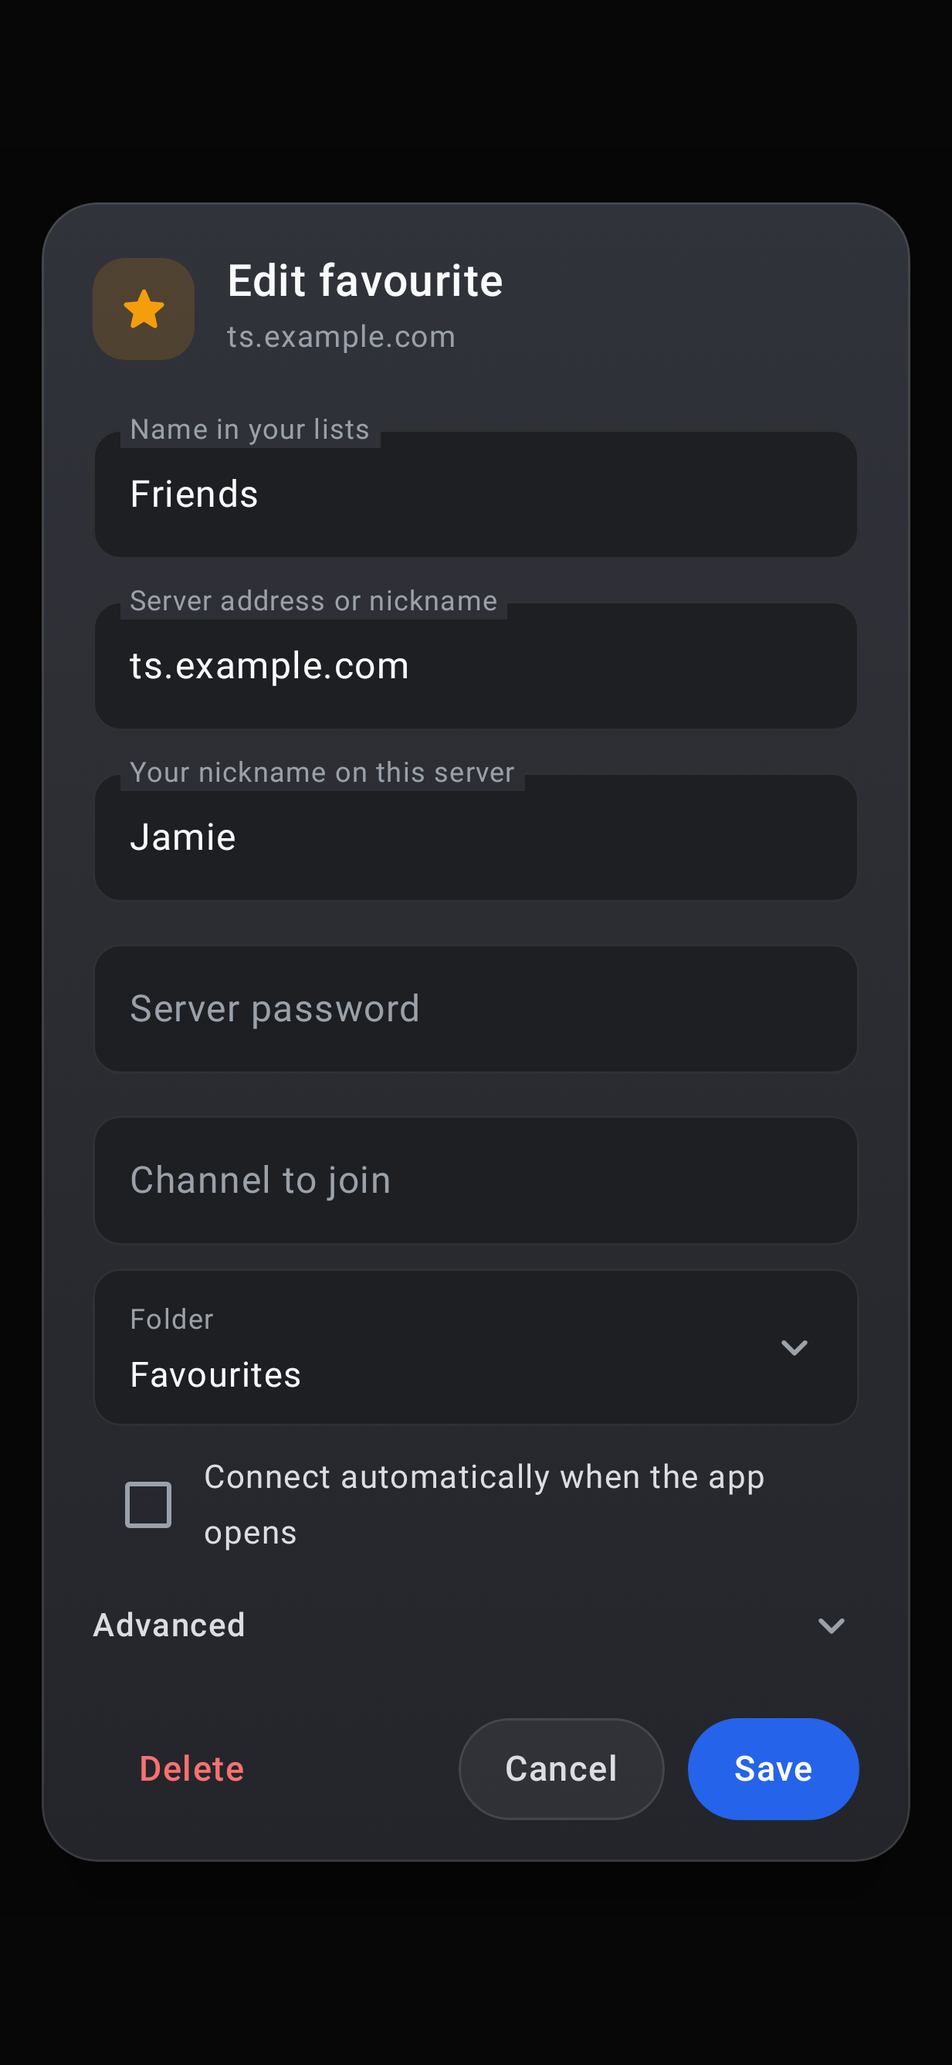
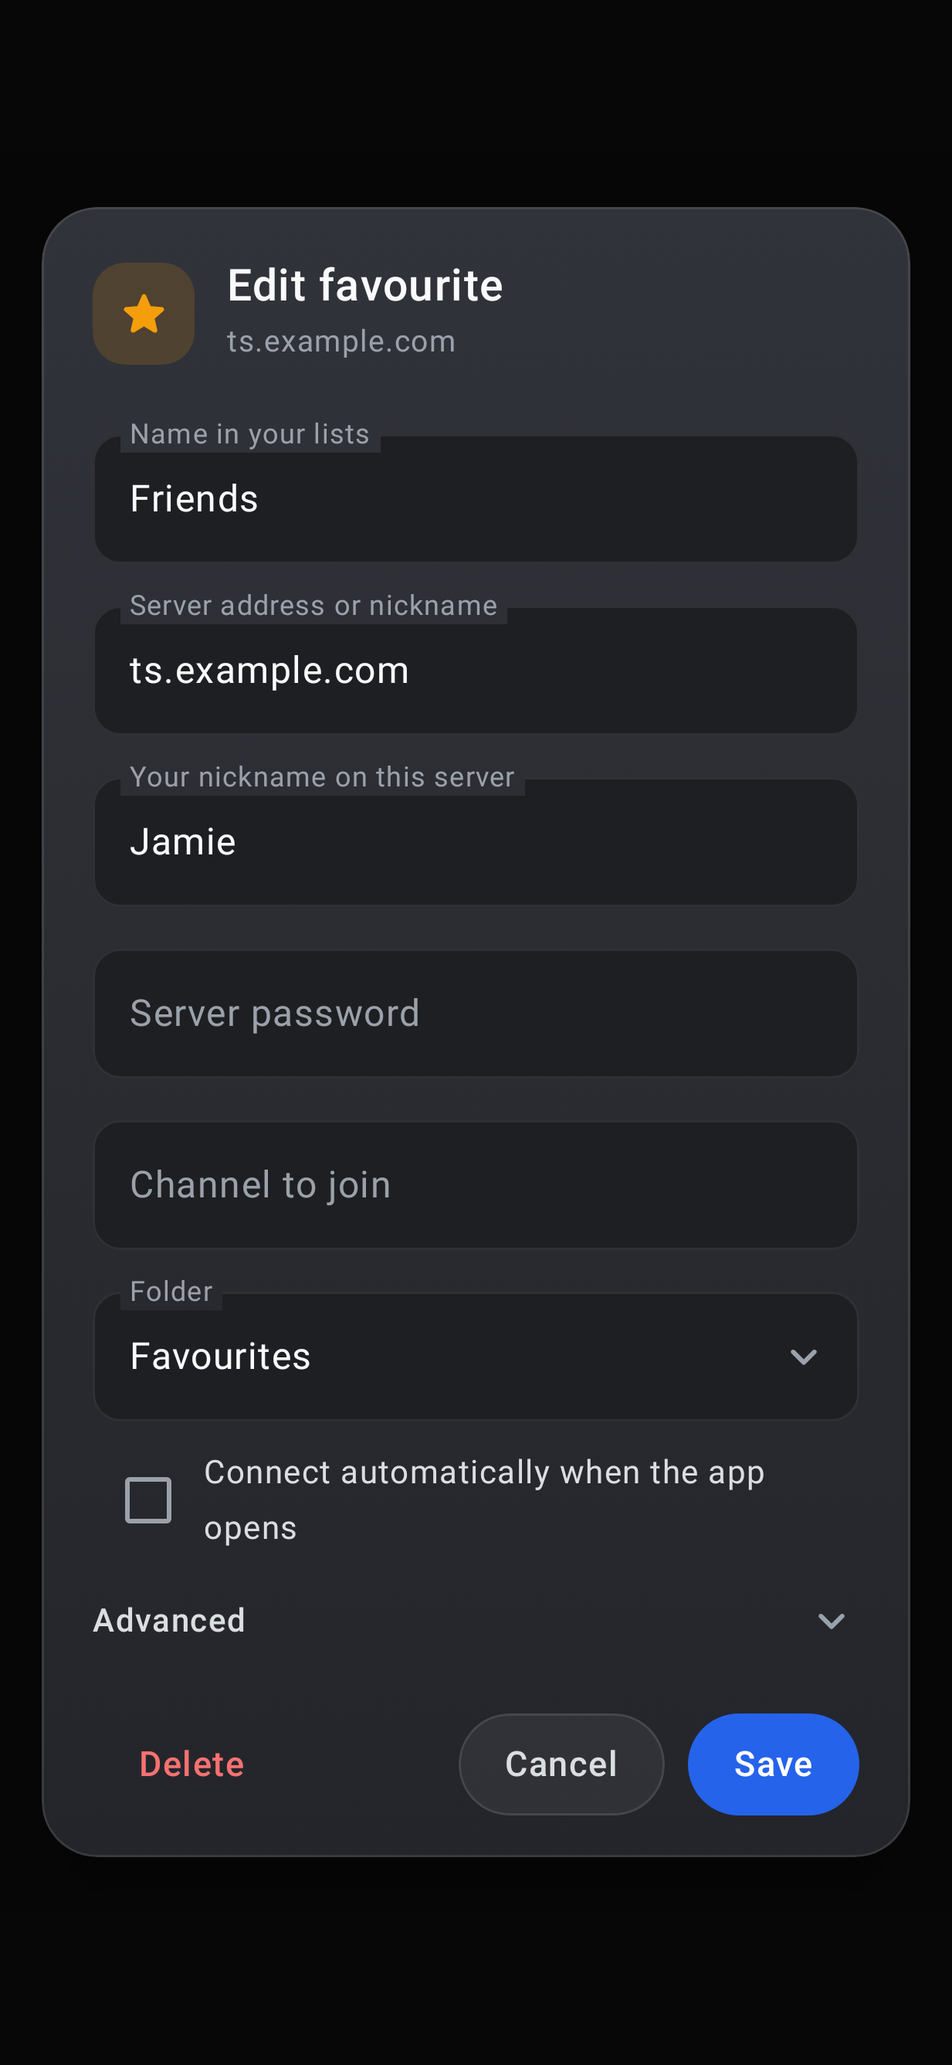
Favourites arranged by holding, folders moved, the Folder field's look
A favourite's row held is dragged to another place in its folder (the
others make room); a tap still connects, and holding connects nothing.
Screen readers get Move up and Move down on each row. A folder's header
held opens Edit folder: its name, and Move up and Move down among the
folders. The Folder choice in Edit favourite is a field as the others
are, with its name on the border and their height.

diff --git a/app/src/main/kotlin/io/github/korppujauho/pocketts/ui/ConnectScreen.kt b/app/src/main/kotlin/io/github/korppujauho/pocketts/ui/ConnectScreen.kt
@@ -6,7 +6,15 @@ import androidx.compose.foundation.background
 import androidx.compose.foundation.border
 import androidx.compose.foundation.clickable
 import androidx.compose.foundation.combinedClickable
+import androidx.compose.foundation.gestures.detectDragGesturesAfterLongPress
+import androidx.compose.foundation.gestures.detectTapGestures
+import androidx.compose.ui.graphics.graphicsLayer
+import androidx.compose.ui.input.pointer.pointerInput
+import androidx.compose.ui.layout.onSizeChanged
 import androidx.compose.ui.semantics.customActions
+import androidx.compose.ui.semantics.onClick
+import androidx.compose.ui.semantics.role
+import androidx.compose.ui.zIndex
 import androidx.compose.ui.semantics.heading
 import androidx.compose.ui.semantics.semantics
 import androidx.compose.foundation.layout.Arrangement
@@ -65,6 +73,9 @@ interface ConnectActions {
     fun removeFavorite(f: Favorite)
     fun toggleAuto(f: Favorite)
     fun renameFolder(folder: String, name: String) {}
+    /** A favourite dragged to place [to] in its folder; a folder moved one place up or down. */
+    fun moveFavorite(f: Favorite, to: Int) {}
+    fun moveFolder(folder: String, up: Boolean) {}
     /** Remembered: the folders folded shut, and whether the Connect and Community panel is folded to its bar. */
     fun setFolded(folders: Set<String>) {}
     fun setConnectHidden(hidden: Boolean) {}
@@ -124,7 +135,7 @@ fun ConnectScreen(
                     },
                     onRename = { renaming = folder },
                 ) {
-                    for (f in inFolder) FavoriteRow(f, actions, onEdit = { editing = f })
+                    FavoriteRows(inFolder, actions, onEdit = { editing = it })
                 }
             }
             // Connecting by address, and TeamSpeak's community servers: two pages of one panel, its switch on top, and
@@ -191,8 +202,11 @@ fun ConnectScreen(
     }
     renaming?.let { folder ->
         val first = stringResource(R.string.favourites)
+        val at = folders.indexOfFirst { it.first == folder }
         FolderDialog(
             folderName(folder),
+            onUp = if (at > 0) ({ actions.moveFolder(folder, true) }) else null,
+            onDown = if (at in 0 until folders.lastIndex) ({ actions.moveFolder(folder, false) }) else null,
             onSave = { typed ->
                 val name = if (typed == first) "" else typed // the first folder's own name is that folder
                 // Folded shut, it stays so under its new name
@@ -211,11 +225,11 @@ fun ConnectScreen(
 @Composable
 internal fun folderName(folder: String) = folder.ifEmpty { stringResource(R.string.favourites) }
 
-/** A folder of favourites: its name, and a tap on it folds it shut or open (holding it renames it). */
+/** A folder of favourites: its name, and a tap on it folds it shut or open (holding it opens its edit window). */
 @OptIn(androidx.compose.foundation.ExperimentalFoundationApi::class)
 @Composable
 private fun FolderPanel(name: String, open: Boolean, onToggle: () -> Unit, onRename: () -> Unit, content: @Composable () -> Unit) {
-    val rename = stringResource(R.string.folder_rename)
+    val rename = stringResource(R.string.folder_edit)
     Column(
         Modifier.fillMaxWidth().clip(RoundedCornerShape(12.dp)).background(Ts.panel)
             .border(1.dp, Ts.hairline, RoundedCornerShape(12.dp)),
@@ -249,12 +263,15 @@ private fun FolderPanel(name: String, open: Boolean, onToggle: () -> Unit, onRen
     }
 }
 
-/** A folder's new name. */
+/**
+ * A folder's edit window: its name, and its place among the folders ([onUp] and [onDown] move it at once; null at the
+ * top and at the bottom).
+ */
 @Composable
-private fun FolderDialog(name: String, onSave: (String) -> Unit, onDismiss: () -> Unit) {
+private fun FolderDialog(name: String, onUp: (() -> Unit)?, onDown: (() -> Unit)?, onSave: (String) -> Unit, onDismiss: () -> Unit) {
     var text by remember { mutableStateOf(name) }
     TsDialog(
-        onDismiss = onDismiss, title = stringResource(R.string.folder_rename),
+        onDismiss = onDismiss, title = stringResource(R.string.folder_edit),
         icon = androidx.compose.material.icons.Icons.Rounded.Edit, tint = Ts.accent,
         buttons = {
             Spacer(Modifier.weight(1f))
@@ -263,6 +280,10 @@ private fun FolderDialog(name: String, onSave: (String) -> Unit, onDismiss: () -
         },
     ) {
         TsField(text, { text = it.take(40) }, stringResource(R.string.folder_name))
+        Row(horizontalArrangement = Arrangement.spacedBy(10.dp)) {
+            PillButton(stringResource(R.string.a11y_move_up), enabled = onUp != null, modifier = Modifier.weight(1f)) { onUp?.invoke() }
+            PillButton(stringResource(R.string.a11y_move_down), enabled = onDown != null, modifier = Modifier.weight(1f)) { onDown?.invoke() }
+        }
     }
 }
 
@@ -324,13 +345,94 @@ private fun CommunityServers(nick: String, onJoin: (String) -> Unit) {
     }
 }
 
+/**
+ * A folder's favourites: a tap connects, and a row held is dragged up or down to another place among them (the others
+ * make room; let go, it stays there).
+ */
 @Composable
-private fun FavoriteRow(f: Favorite, actions: ConnectActions, onEdit: () -> Unit) {
-    Row(verticalAlignment = Alignment.CenterVertically, horizontalArrangement = Arrangement.spacedBy(6.dp)) {
+private fun FavoriteRows(list: List<Favorite>, actions: ConnectActions, onEdit: (Favorite) -> Unit) {
+    val gap = with(androidx.compose.ui.platform.LocalDensity.current) { 8.dp.toPx() }
+    val haptic = androidx.compose.ui.platform.LocalHapticFeedback.current
+    var rowHeight by remember { mutableStateOf(0) }
+    var dragged by remember { mutableStateOf<Favorite?>(null) }
+    var dragY by remember { mutableStateOf(0f) }
+    val slot = rowHeight + gap
+    val from = list.indexOf(dragged)
+    // Where it would land: its own place moved by whole rows
+    val to = if (from < 0 || slot <= 0f) from else (from + Math.round(dragY / slot)).coerceIn(0, list.lastIndex)
+    Column(verticalArrangement = Arrangement.spacedBy(8.dp)) {
+        list.forEachIndexed { i, f ->
+            val mine = f == dragged
+            // The rows between where it was and where it would land step aside
+            val aside by androidx.compose.animation.core.animateFloatAsState(
+                when {
+                    from < 0 || mine -> 0f
+                    i in (from + 1)..to -> -slot
+                    i in to until from -> slot
+                    else -> 0f
+                },
+                label = "aside",
+            )
+            androidx.compose.runtime.key(f) {
+                FavoriteRow(
+                    f, lifted = mine,
+                    modifier = Modifier.onSizeChanged { rowHeight = it.height }
+                        .zIndex(if (mine) 1f else 0f).graphicsLayer { translationY = if (mine) dragY else aside },
+                    onConnect = { actions.connectFavorite(f) }, onEdit = { onEdit(f) },
+                    onUp = if (i > 0) ({ actions.moveFavorite(f, i - 1) }) else null,
+                    onDown = if (i < list.lastIndex) ({ actions.moveFavorite(f, i + 1) }) else null,
+                    onDragStart = {
+                        haptic.performHapticFeedback(androidx.compose.ui.hapticfeedback.HapticFeedbackType.LongPress)
+                        dragged = f
+                        dragY = 0f
+                    },
+                    onDrag = { dragY += it },
+                    onDragEnd = { moved ->
+                        if (moved && to >= 0 && to != from) actions.moveFavorite(f, to)
+                        dragged = null
+                        dragY = 0f
+                    },
+                )
+            }
+        }
+    }
+}
+
+@Composable
+private fun FavoriteRow(
+    f: Favorite, lifted: Boolean, modifier: Modifier, onConnect: () -> Unit, onEdit: () -> Unit, onUp: (() -> Unit)?, onDown: (() -> Unit)?,
+    onDragStart: () -> Unit, onDrag: (Float) -> Unit, onDragEnd: (moved: Boolean) -> Unit,
+) {
+    val connect = stringResource(R.string.connect)
+    val up = stringResource(R.string.a11y_move_up)
+    val down = stringResource(R.string.a11y_move_down)
+    // The latest ones, for the gestures that outlive a redraw
+    val start by androidx.compose.runtime.rememberUpdatedState(onDragStart)
+    val drag by androidx.compose.runtime.rememberUpdatedState(onDrag)
+    val end by androidx.compose.runtime.rememberUpdatedState(onDragEnd)
+    val tap by androidx.compose.runtime.rememberUpdatedState(onConnect)
+    Row(modifier, verticalAlignment = Alignment.CenterVertically, horizontalArrangement = Arrangement.spacedBy(6.dp)) {
         Column(
             Modifier.weight(1f).clip(RoundedCornerShape(8.dp)).background(Ts.card)
-                .border(1.dp, Color(0x1FFFFFFF), RoundedCornerShape(8.dp))
-                .clickable { actions.connectFavorite(f) }.padding(horizontal = 14.dp, vertical = 10.dp),
+                .border(1.dp, if (lifted) Ts.accent else Color(0x1FFFFFFF), RoundedCornerShape(8.dp))
+                .semantics {
+                    role = androidx.compose.ui.semantics.Role.Button
+                    onClick(connect) { tap(); true }
+                    customActions = listOfNotNull(
+                        onUp?.let { androidx.compose.ui.semantics.CustomAccessibilityAction(up) { it(); true } },
+                        onDown?.let { androidx.compose.ui.semantics.CustomAccessibilityAction(down) { it(); true } },
+                    )
+                }
+                // A tap connects; held, it isn't a tap any more (the drag below takes it, and letting go connects nothing)
+                .pointerInput(Unit) { detectTapGestures(onLongPress = {}, onTap = { tap() }) }
+                .pointerInput(Unit) {
+                    detectDragGesturesAfterLongPress(
+                        onDragStart = { start() },
+                        onDrag = { change, amount -> change.consume(); drag(amount.y) },
+                        onDragEnd = { end(true) }, onDragCancel = { end(false) },
+                    )
+                }
+                .padding(horizontal = 14.dp, vertical = 10.dp),
         ) {
             Text(f.label, color = Ts.text, fontWeight = FontWeight.SemiBold, fontSize = 15.sp, maxLines = 1, overflow = TextOverflow.Ellipsis)
         }
@@ -444,22 +546,15 @@ private fun FolderChoice(folders: List<String>, folder: String, newFolder: Strin
     var open by remember { mutableStateOf(false) }
     val label = stringResource(R.string.favourite_folder)
     Box {
-        Row(
-            Modifier.fillMaxWidth().clip(RoundedCornerShape(12.dp)).background(Ts.card)
-                .border(1.dp, Color(0x14FFFFFF), RoundedCornerShape(12.dp))
-                .clickable(role = androidx.compose.ui.semantics.Role.DropdownList) { open = true }
-                .padding(horizontal = 16.dp, vertical = 10.dp),
-            verticalAlignment = Alignment.CenterVertically,
-        ) {
-            Column(Modifier.weight(1f)) {
-                Text(label, color = Ts.muted, fontSize = 12.sp)
-                Text(
-                    if (newFolder != null) stringResource(R.string.favourite_folder_new) else folderName(folder),
-                    color = Ts.bright, fontSize = 15.sp, maxLines = 1, overflow = TextOverflow.Ellipsis,
-                )
-            }
-            androidx.compose.material3.Icon(androidx.compose.material.icons.Icons.Rounded.ExpandMore, contentDescription = null, tint = Ts.muted)
-        }
+        // In the other fields' look; the whole of it opens the list
+        TsField(
+            if (newFolder != null) stringResource(R.string.favourite_folder_new) else folderName(folder), {}, label, readOnly = true,
+            trailing = { androidx.compose.material3.Icon(androidx.compose.material.icons.Icons.Rounded.ExpandMore, contentDescription = null, tint = Ts.muted) },
+        )
+        Box(
+            Modifier.matchParentSize().clip(RoundedCornerShape(12.dp))
+                .clickable(role = androidx.compose.ui.semantics.Role.DropdownList) { open = true },
+        )
         androidx.compose.material3.DropdownMenu(open, onDismissRequest = { open = false }, containerColor = Ts.card) {
             for (name in folders) {
                 androidx.compose.material3.DropdownMenuItem(

diff --git a/app/src/test/kotlin/io/github/korppujauho/pocketts/FavouriteDragTest.kt b/app/src/test/kotlin/io/github/korppujauho/pocketts/FavouriteDragTest.kt
@@ -1,0 +1,91 @@
+package io.github.korppujauho.pocketts
+
+import androidx.compose.ui.geometry.Offset
+import androidx.compose.ui.test.click
+import androidx.compose.ui.test.junit4.createComposeRule
+import androidx.compose.ui.test.longClick
+import androidx.compose.ui.test.onNodeWithText
+import androidx.compose.ui.test.performTouchInput
+import io.github.korppujauho.pocketts.ui.ConnectActions
+import io.github.korppujauho.pocketts.ui.ConnectScreen
+import io.github.korppujauho.pocketts.ui.PocketTsTheme
+import org.junit.Assert.assertEquals
+import org.junit.Rule
+import org.junit.Test
+import org.junit.runner.RunWith
+import org.robolectric.RobolectricTestRunner
+import org.robolectric.annotation.Config
+import org.robolectric.annotation.GraphicsMode
+
+/**
+ * A favourite's row on the connect screen: a tap connects; held and dragged it's moved to another place in its
+ * folder, and held it connects nothing. A folder's header held opens its edit window.
+ */
+@RunWith(RobolectricTestRunner::class)
+@GraphicsMode(GraphicsMode.Mode.NATIVE)
+@Config(qualifiers = "w411dp-h891dp-xxhdpi", sdk = [36])
+class FavouriteDragTest {
+    @get:Rule val rule = createComposeRule()
+    private val favs = listOf(
+        Favorite("ts.example.com", "Friends' server"), Favorite("voice.example.org:9988"), Favorite("third.example.org", "Third"),
+        Favorite("clan.example.net", "Clan", folder = "Gaming"),
+    )
+
+    private class Seen : ConnectActions {
+        val moves = mutableListOf<Pair<String, Int>>()
+        val connects = mutableListOf<String>()
+        override fun connect(address: String, nickname: String, password: String, remember: Boolean, favorite: Boolean) {}
+        override fun connectFavorite(f: Favorite) { connects += f.address }
+        override fun saveFavorite(old: Favorite?, new: Favorite) {}
+        override fun removeFavorite(f: Favorite) {}
+        override fun toggleAuto(f: Favorite) {}
+        override fun moveFavorite(f: Favorite, to: Int) { moves += f.address to to }
+    }
+
+    private fun screen(seen: Seen) = rule.setContent {
+        PocketTsTheme { ConnectScreen("Jamie", "", "", favs, null, seen, settingsActions = Example.noSettings, connectHidden = true) }
+    }
+
+    @Test
+    fun heldAndDraggedItMovesAndConnectsNothing() {
+        val seen = Seen()
+        screen(seen)
+        rule.onNodeWithText("Friends' server").performTouchInput {
+            down(center)
+            advanceEventTime(800)
+            moveBy(Offset(0f, 170f)) // a row down
+        }
+        rule.waitForIdle() // the row is lifted and the others have made room
+        rule.onNodeWithText("Friends' server").performTouchInput { up() }
+        rule.waitForIdle()
+        assertEquals(listOf("ts.example.com" to 1), seen.moves)
+        assertEquals(emptyList<String>(), seen.connects)
+    }
+
+    @Test
+    fun heldWithoutDraggingItStaysAndConnectsNothing() {
+        val seen = Seen()
+        screen(seen)
+        rule.onNodeWithText("Third").performTouchInput { longClick() }
+        rule.waitForIdle()
+        assertEquals(emptyList<Pair<String, Int>>(), seen.moves)
+        assertEquals(emptyList<String>(), seen.connects)
+    }
+
+    @Test
+    fun aTapConnects() {
+        val seen = Seen()
+        screen(seen)
+        rule.onNodeWithText("Third").performTouchInput { click() }
+        rule.waitForIdle()
+        assertEquals(listOf("third.example.org"), seen.connects)
+    }
+
+    @Test
+    fun aFoldersHeaderHeldOpensItsEditWindow() {
+        screen(Seen())
+        rule.onNodeWithText("Gaming").performTouchInput { longClick() }
+        rule.onNodeWithText("Edit folder").assertExists()
+        rule.onNodeWithText("Move up").assertExists()
+    }
+}

diff --git a/app/src/test/kotlin/io/github/korppujauho/pocketts/FavouriteFoldersTest.kt b/app/src/test/kotlin/io/github/korppujauho/pocketts/FavouriteFoldersTest.kt
@@ -67,6 +67,31 @@ class FavouriteFoldersTest {
     }
 
     @Test
+    fun aFavouriteIsDraggedWithinItsFolder() {
+        val d = Favorite("d.example.com")
+        // a, c and d are in the first folder, b (Friends) between them in the list
+        assertEquals(listOf(c, b, d, a), Favorites.moved(listOf(a, b, c, d), a, 2))
+        assertEquals(listOf(d, b, a, c), Favorites.moved(listOf(a, b, c, d), d, 0))
+        assertEquals(listOf(a, b, c, d), Favorites.moved(listOf(a, b, c, d), c, 1)) // where it was
+        assertEquals(listOf(c, b, d, a), Favorites.moved(listOf(a, b, c, d), a, 9)) // past the end: last
+        // The folders are as they were
+        assertEquals(listOf("", "Friends"), Favorites.byFolder(Favorites.moved(listOf(a, b, c, d), a, 2)).map { it.first })
+    }
+
+    @Test
+    fun aFolderIsMovedUpOrDown() {
+        val w = Favorite("w.example.com", folder = "Work")
+        val list = listOf(a, b, c, w)
+        assertEquals(listOf("Friends", "", "Work"), Favorites.byFolder(Favorites.folderMoved(list, "Friends", up = true)).map { it.first })
+        assertEquals(listOf("", "Work", "Friends"), Favorites.byFolder(Favorites.folderMoved(list, "Friends", up = false)).map { it.first })
+        // The first one up, the last one down: as it was
+        assertEquals(list, Favorites.folderMoved(list, "", up = true))
+        assertEquals(list, Favorites.folderMoved(list, "Work", up = false))
+        // Its favourites keep their order
+        assertEquals(listOf(b, a, c, w), Favorites.folderMoved(list, "Friends", up = true))
+    }
+
+    @Test
     fun foldedFoldersAreRemembered() {
         assertEquals(emptySet<String>(), Favorites.folded(context))
         Favorites.setFolded(context, setOf("", "Friends"))

diff --git a/app/src/main/kotlin/io/github/korppujauho/pocketts/Favorites.kt b/app/src/main/kotlin/io/github/korppujauho/pocketts/Favorites.kt
@@ -113,6 +113,25 @@ object Favorites {
         return list.map { if (it.folder == folder) it.copy(folder = to) else it }
     }
 
+    /** A favourite dragged to place [to] among its folder's favourites (the other folders stay where they are). */
+    fun moved(list: List<Favorite>, f: Favorite, to: Int): List<Favorite> {
+        val inFolder = list.filter { it.folder == f.folder }
+        val from = inFolder.indexOf(f)
+        if (from < 0 || to.coerceIn(0, inFolder.lastIndex) == from) return list
+        val order = inFolder.toMutableList().apply { add(to.coerceIn(0, inFolder.lastIndex), removeAt(from)) }.iterator()
+        return list.map { if (it.folder == f.folder) order.next() else it }
+    }
+
+    /** A folder moved one place up or down among the folders. */
+    fun folderMoved(list: List<Favorite>, folder: String, up: Boolean): List<Favorite> {
+        val folders = byFolder(list).toMutableList()
+        val from = folders.indexOfFirst { it.first == folder }
+        val to = if (up) from - 1 else from + 1
+        if (from < 0 || to !in folders.indices) return list
+        folders.add(to, folders.removeAt(from))
+        return folders.flatMap { it.second }
+    }
+
     /** The folders folded shut on the connect screen. */
     fun folded(c: Context): Set<String> = prefs(c).getStringSet("folded", emptySet()).orEmpty().toSet()
 

diff --git a/app/src/main/kotlin/io/github/korppujauho/pocketts/MainActivity.kt b/app/src/main/kotlin/io/github/korppujauho/pocketts/MainActivity.kt
@@ -386,6 +386,8 @@ private fun Connect(state: Session.UiState, favs: List<Favorite>) {
             override fun removeFavorite(f: Favorite) = saveFavorites(ctx, favs - f)
             override fun toggleAuto(f: Favorite) = saveFavorites(ctx, favs.map { it.copy(auto = if (it == f) !f.auto else false) })
             override fun renameFolder(folder: String, name: String) = saveFavorites(ctx, Favorites.renamed(favs, folder, name))
+            override fun moveFavorite(f: Favorite, to: Int) = saveFavorites(ctx, Favorites.moved(favs, f, to))
+            override fun moveFolder(folder: String, up: Boolean) = saveFavorites(ctx, Favorites.folderMoved(favs, folder, up))
             override fun setFolded(folders: Set<String>) = Favorites.setFolded(ctx, folders)
             override fun setConnectHidden(hidden: Boolean) {
                 settings.connectHidden = hidden

diff --git a/app/src/main/kotlin/io/github/korppujauho/pocketts/ui/Screens.kt b/app/src/main/kotlin/io/github/korppujauho/pocketts/ui/Screens.kt
@@ -339,9 +339,11 @@ fun TsField(
     keyboard: KeyboardType = KeyboardType.Text,
     imeAction: ImeAction = ImeAction.Next,
     singleLine: Boolean = true,
+    readOnly: Boolean = false, // shows a choice made elsewhere (a list the caller opens), in the fields' look
+    trailing: (@Composable () -> Unit)? = null,
 ) {
     OutlinedTextField(
-        value = value, onValueChange = onChange, singleLine = singleLine,
+        value = value, onValueChange = onChange, singleLine = singleLine, readOnly = readOnly, trailingIcon = trailing,
         label = { Text(label) },
         placeholder = placeholder?.let { { Text(it, color = Ts.faint) } },
         visualTransformation = if (password) PasswordVisualTransformation() else androidx.compose.ui.text.input.VisualTransformation.None,
